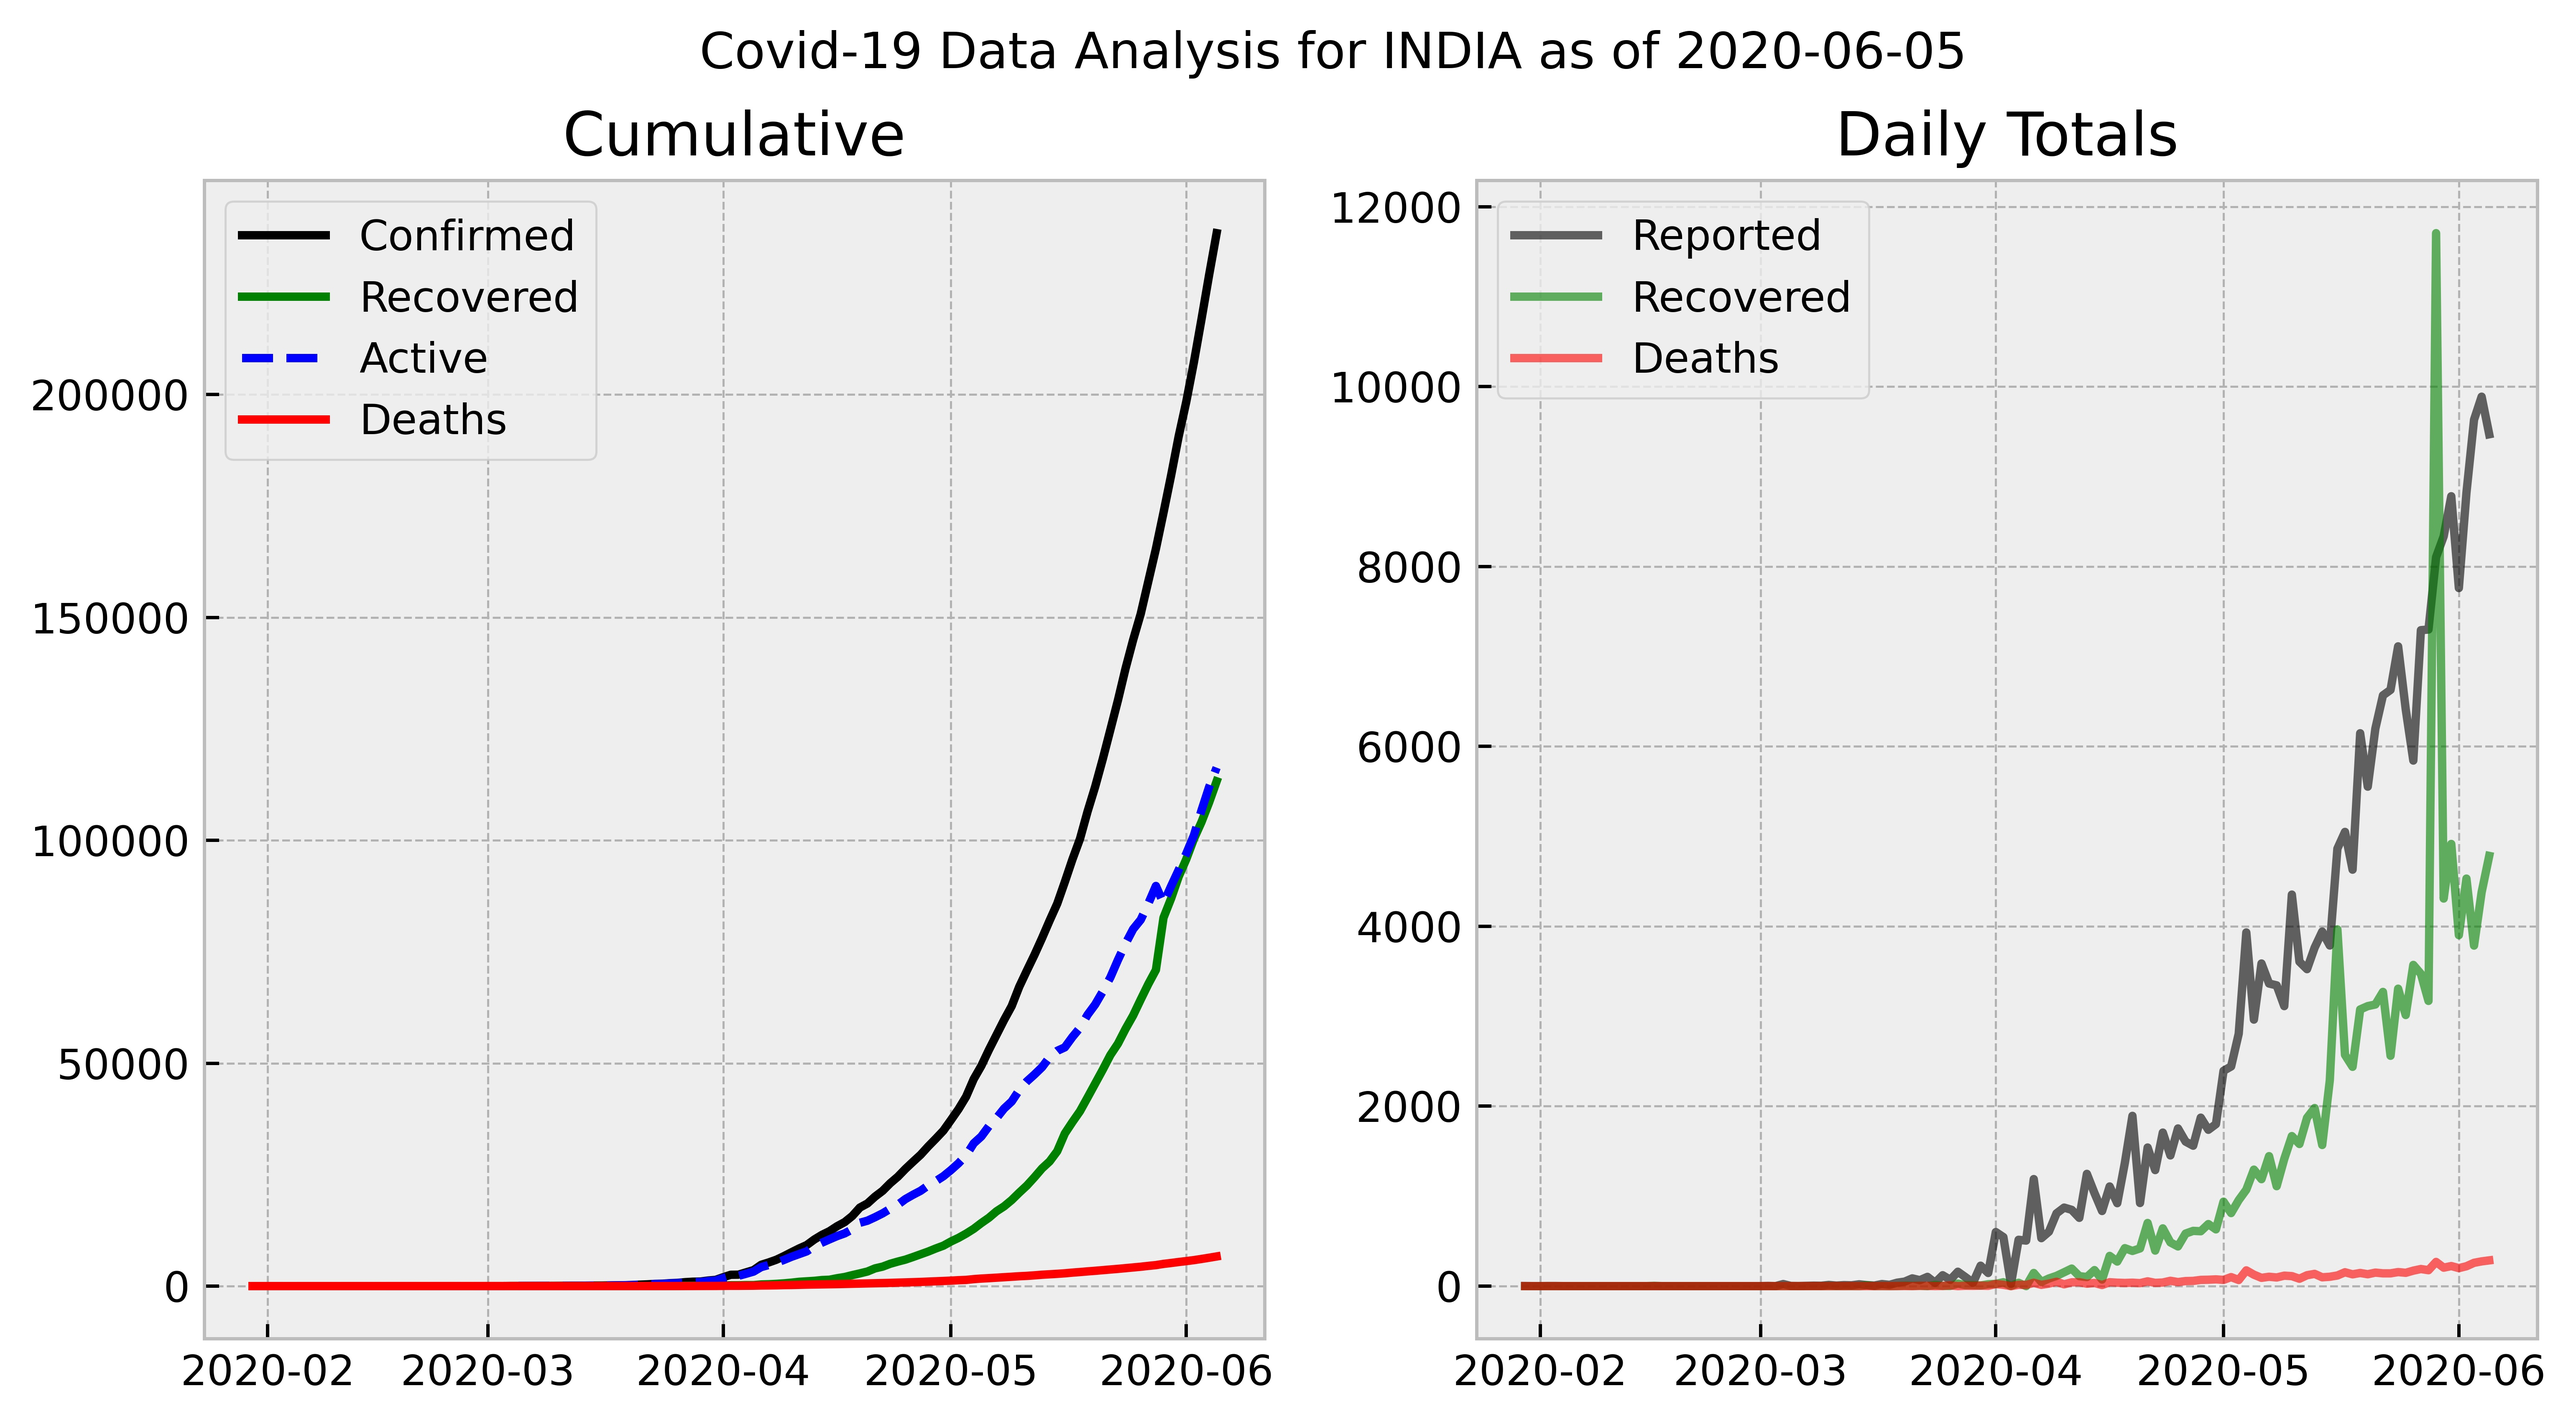
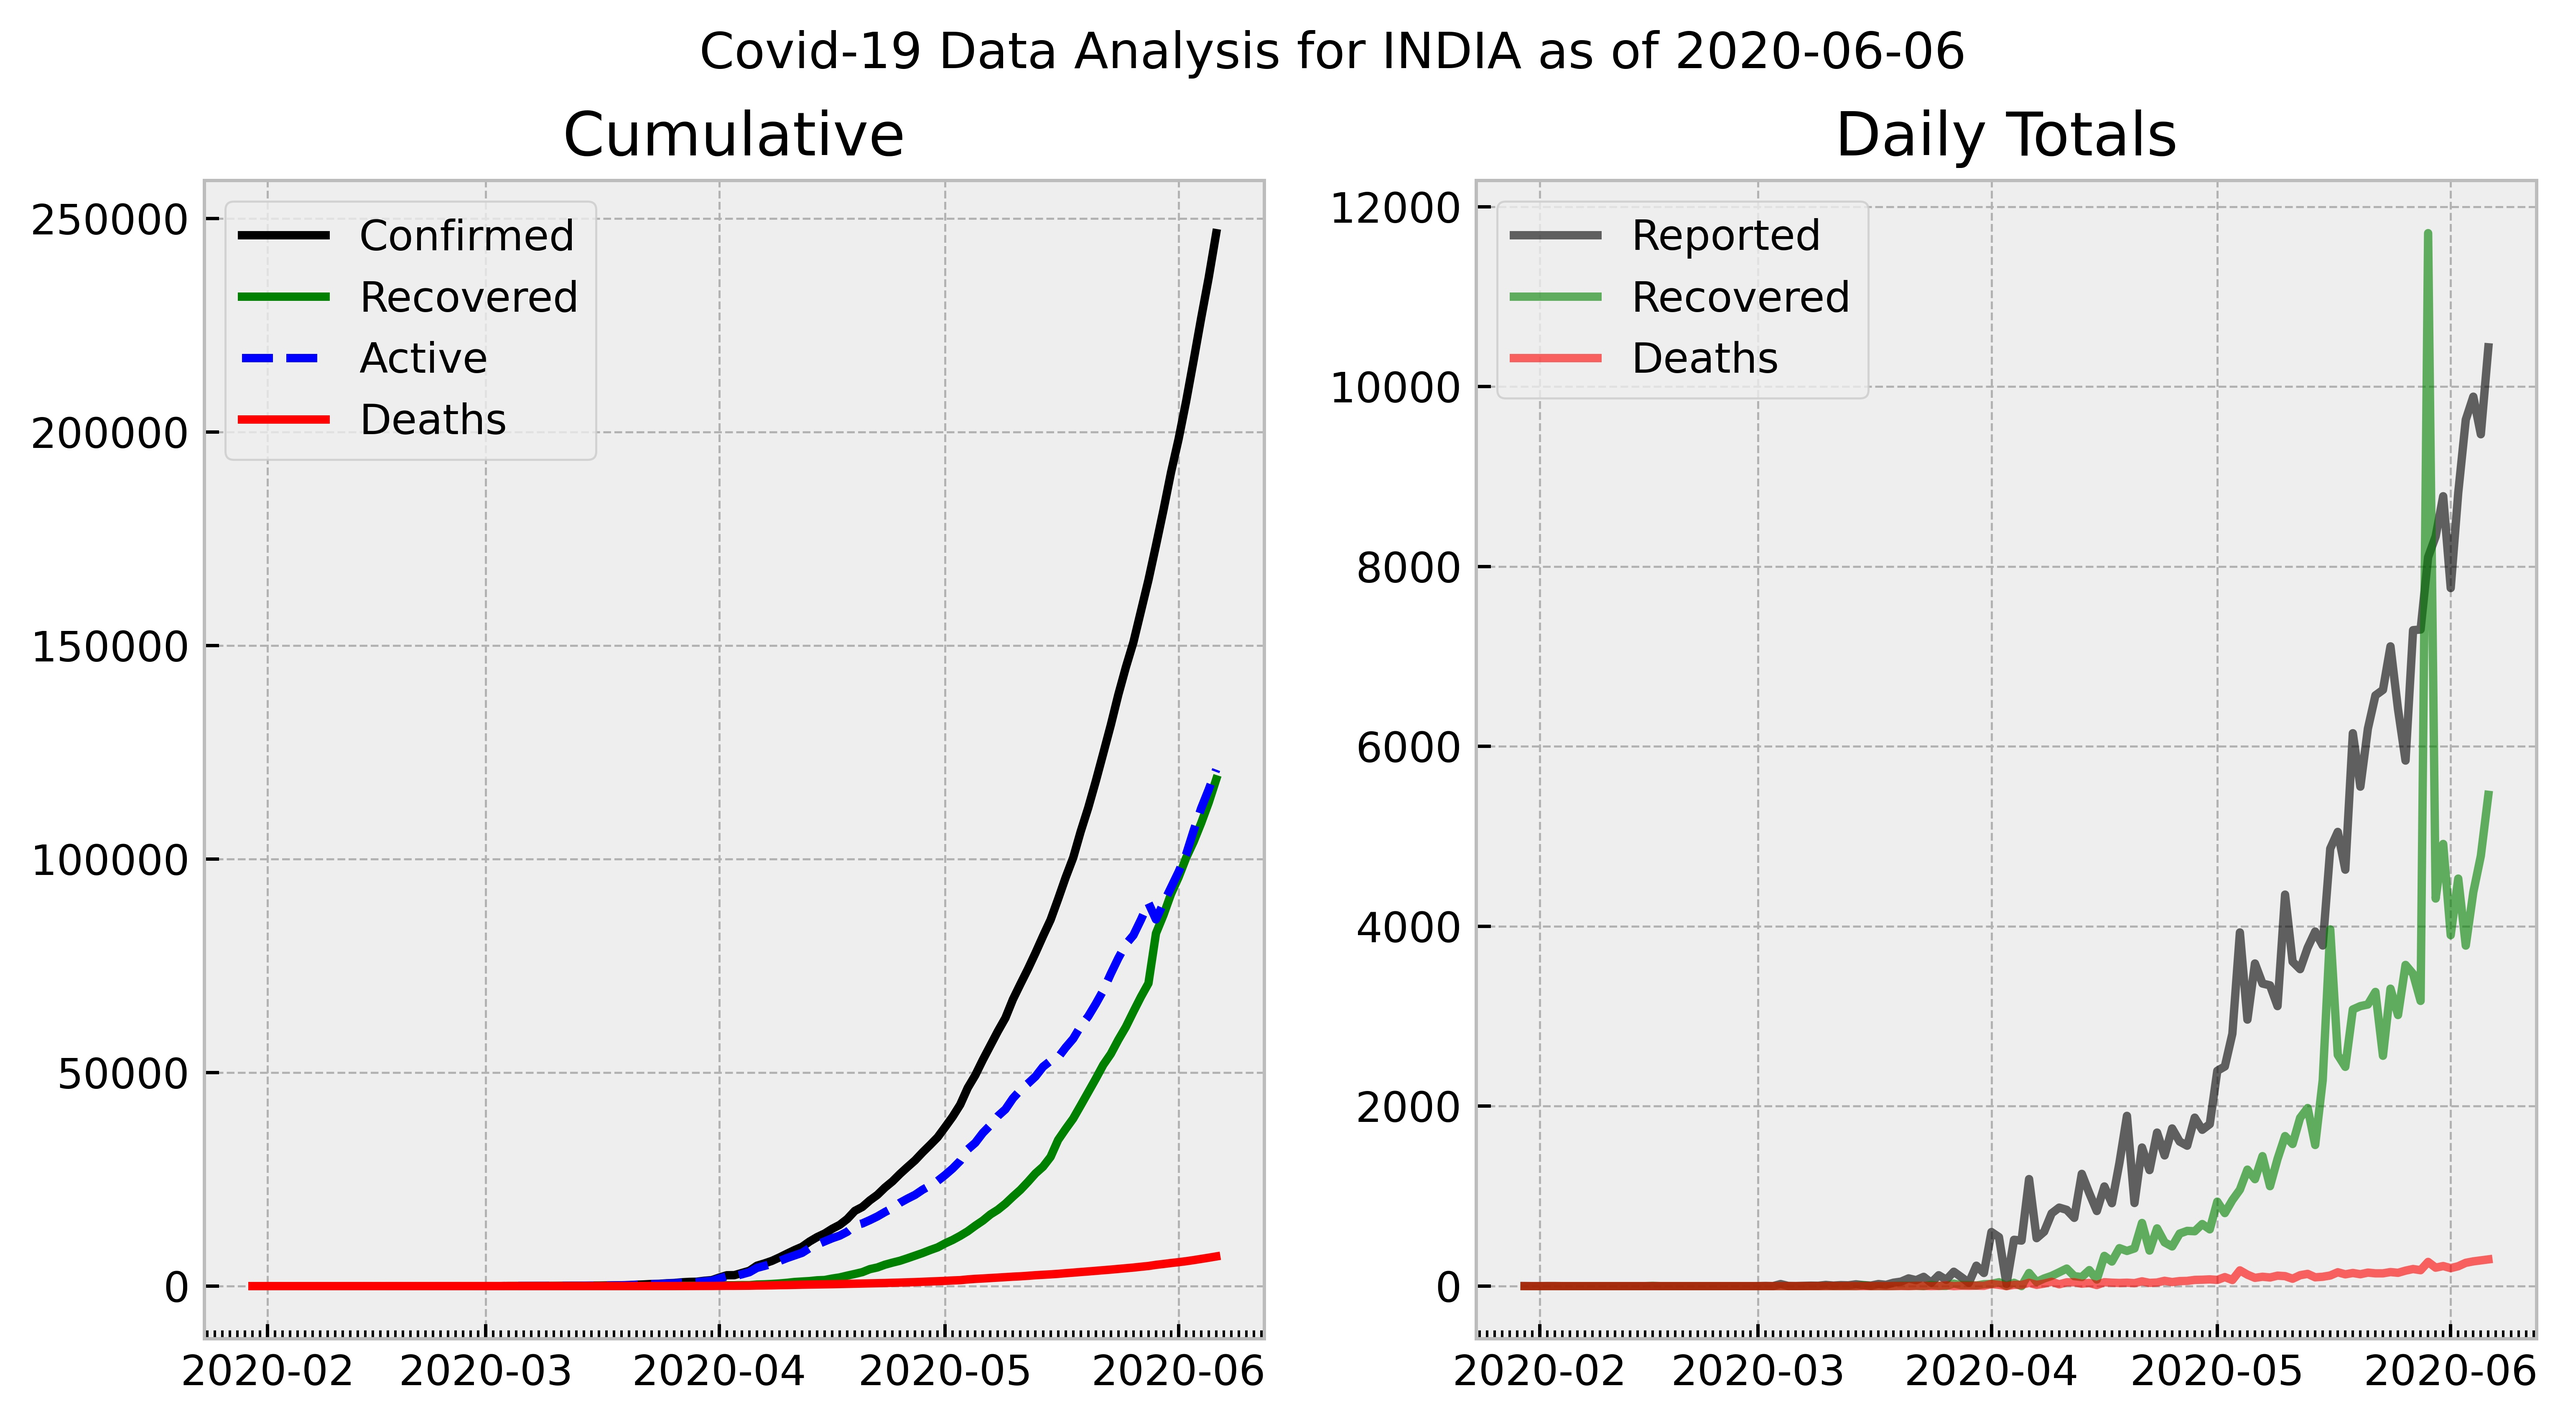
Updated data

diff --git a/scripts/covid_data_analysis.py b/scripts/covid_data_analysis.py
@@ -7,7 +7,7 @@ import os
 import matplotlib.pyplot as plt
 plt.style.use('bmh')
 
-COUNTRY = 'japan'
+COUNTRY = 'india'
 STATUS = ['confirmed', 'recovered', 'deaths']
 API = 'https://api.covid19api.com/dayone/country/{}/status/{}/live'
 DATA_FOLDER_PATH = os.path.normpath(r'./data/')
@@ -83,6 +83,7 @@ ax1.plot(dates_recovered, cases_recovered, color='g', label='Recovered')
 ax1.plot(dates_active, cases_active, '--', color='b', label='Active')
 ax1.plot(dates_deaths, cases_deaths, color='r', label='Deaths')
 ax1.xaxis.set_major_locator(months)
+ax1.xaxis.set_minor_locator(days)
 ax1.set_title(f'Cumulative')
 ax1.legend(loc='best')
 
@@ -94,6 +95,7 @@ ax2.plot(dates_recovered, cases_recovered_daily,
 ax2.plot(dates_deaths, cases_deaths_daily,
          color='r', label='Deaths', alpha=0.6)
 ax2.xaxis.set_major_locator(months)
+ax2.xaxis.set_minor_locator(days)
 ax2.set_title(f'Daily Totals')
 ax2.legend(loc='best')
 

diff --git a/scripts/covid_predictor_prototype.py b/scripts/covid_predictor_prototype.py
@@ -108,4 +108,4 @@ if __name__ == '__main__':
     model = create_model()
     model = train(model)
     model.save(os.path.join(MODEL_FOLDER_PATH, MODEL_NAME))
-    predict('japan', MODEL_NAME)
+    predict('new-zealand', MODEL_NAME)
